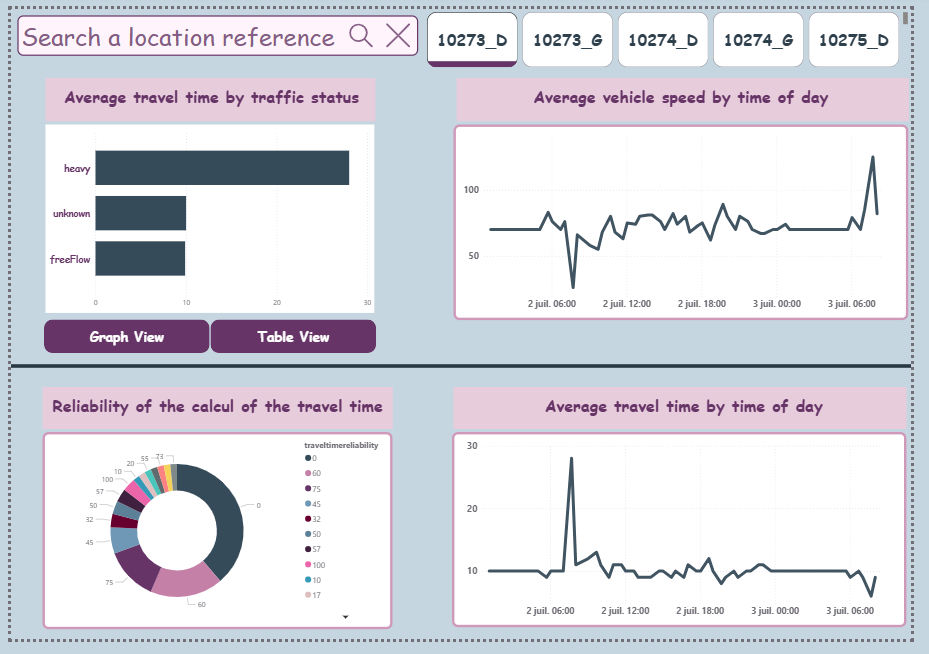
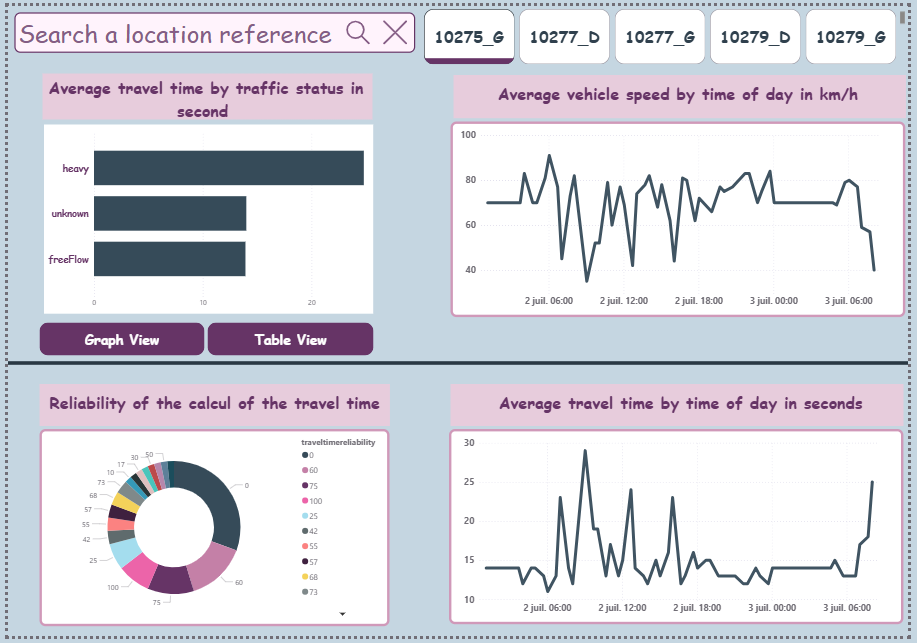
projet4 ready bg

Changed region(s): [[0.0, 0.0, 1.0, 0.9953]]

diff --git a/Projects/project4/Rennes_Road_traffic.html b/Projects/project4/Rennes_Road_traffic.html
@@ -26,9 +26,48 @@
         </header>
         <main>
             <div class="corps-article">
+                <h2 class="secondary-title">Setting up the environment</h2>
+                <div class="inside-text">
+                    Before beginning the project, I set up my work environment. For this project, I am going to use a virtual environment and install all needed python packages on it. 
+                    To create a virtual environnement, I open cmd, go to the location where python 3.13.2 is installed and run this command : 
+                </div>
+                <div class="code-block">
+                    <pre><code class="language-python">
+python -m venv road_traffic_project
+                    </code></pre>
+                </div>
+                <div class="inside-text">
+                    So, I named my virtual environment road_traffic_project. Then to activate this virtual environment I go to road_traffic_project/Scripts and run 
+                </div>
+                <div class="code-block">
+                    <pre><code class="language-python">
+activate
+                    </code></pre>
+                </div>
+                <div class="inside-text">
+                    In order to install on it all what is necessary in a simple way, I gathered all needed python librairies in a file named requirements.txt and which look like like :
+                </div>
+                <div class="code-block">
+                    <pre><code class="language-python">
+requests>=2.32.4
+bs4>=0.0.2
+pandas>=2.3.0
+psycopg2>=2.9.10
+pyarrow>=20.0.0
+python-dotenv>=1.1.1
+                    </code></pre>
+                </div>
+                <div class="inside-text">
+                    I run the following and my working environnement is now ready (the -r flag is what allows me to install librairies directly from a texte file)
+                </div>
+                <div class="code-block">
+                    <pre><code class="language-python">
+pip install -r requirements.txt
+                    </code></pre>
+                </div>
                 <h2 class="secondary-title">Scrapping data</h2>
                 <div class="inside-text">
-                    Firstly, I went to the website data.rennesmetropole.fr which provides real-time traffic data for Rennes.
+                    I went to the website data.rennesmetropole.fr which provides real-time traffic data for Rennes.
                     which provides real-time traffic data for Rennes. The data is updated every 4 minutes, but no historical data is kept.
                     The challenge is therefore to retrieve historical data over a certain period of time using a script that will retrieve this dataset every 30 minutes.
                     So, I created a first python script named data_scraping.py containing the following code :
@@ -249,11 +288,28 @@ cur.close()
 conn.close()
                     </code></pre>
                 </div>
+                <h2 class="secondary-title">building the Power BI dashboard</h2>
+                <div class="inside-text">
+                    once all my data has been added to my PostgreSQL database, I linked this database as a data source in import mode to my Power BI document.
+                    On my Power BI document, I chose to build a report page to analyse the data I retrieved using my different scripts.
+                    I inserted a segment in the top right-hand corner and a search bar in the top left-hand corner to filter according to the location for which we wanted to study the data.
+                    I then created a graph showing the evolution of the average speed according to the time of day.
+                    To the left of this graph is an analysis of the average travel time according to the traffic status.
+                    This graph can be viewed dynamically using a graph view or a table view. This has been built using a dynamic bookmark.
+                    On the bottom line we find two final graphs: the one on the right studies the average travel time as a function of the time of day, while the one on the left shows us the reliability of the average travel time calculation.
+                    On the data.rennesmetropole.fr website, it is not clearly indicated what the figures in the traveltimereliability column represent, but in any case, the higher the figure, the more reliable the calculation.
+                </div>
                 <div class="inside-image">
-                    <img src="../../annex/annex_project3/Graph_TESLA_stock_prices.png", alt="Visual representation of the TESLA stock prices">
+                    <img src="../../annex/annex_project4/screenshot_dashbord_interactif.png", alt="Visual representation of the TESLA stock prices">
                 </div>     
-
-
+                <h2 class="secondary-title">What I've learnt thanks to this project</h2>
+                <div class="inside-text">
+                    Thanks to this project, I was able to learn how to use python libraries dedicated to scraping (request and beautifulsoup).
+                    I also learned how to create, use and update a PostgreSQL database using psycopg2 and link it with a Power BI document.
+                    Finally, this project has taught me a lot about how to organise myself.
+                    I learned how to create a virtual environment and install all the libraries I needed on it.
+                    I was able to understand how to use an .env file and a .gitignore folder to protect my connection data and my data.
+                </div>
 
 
             </div>
